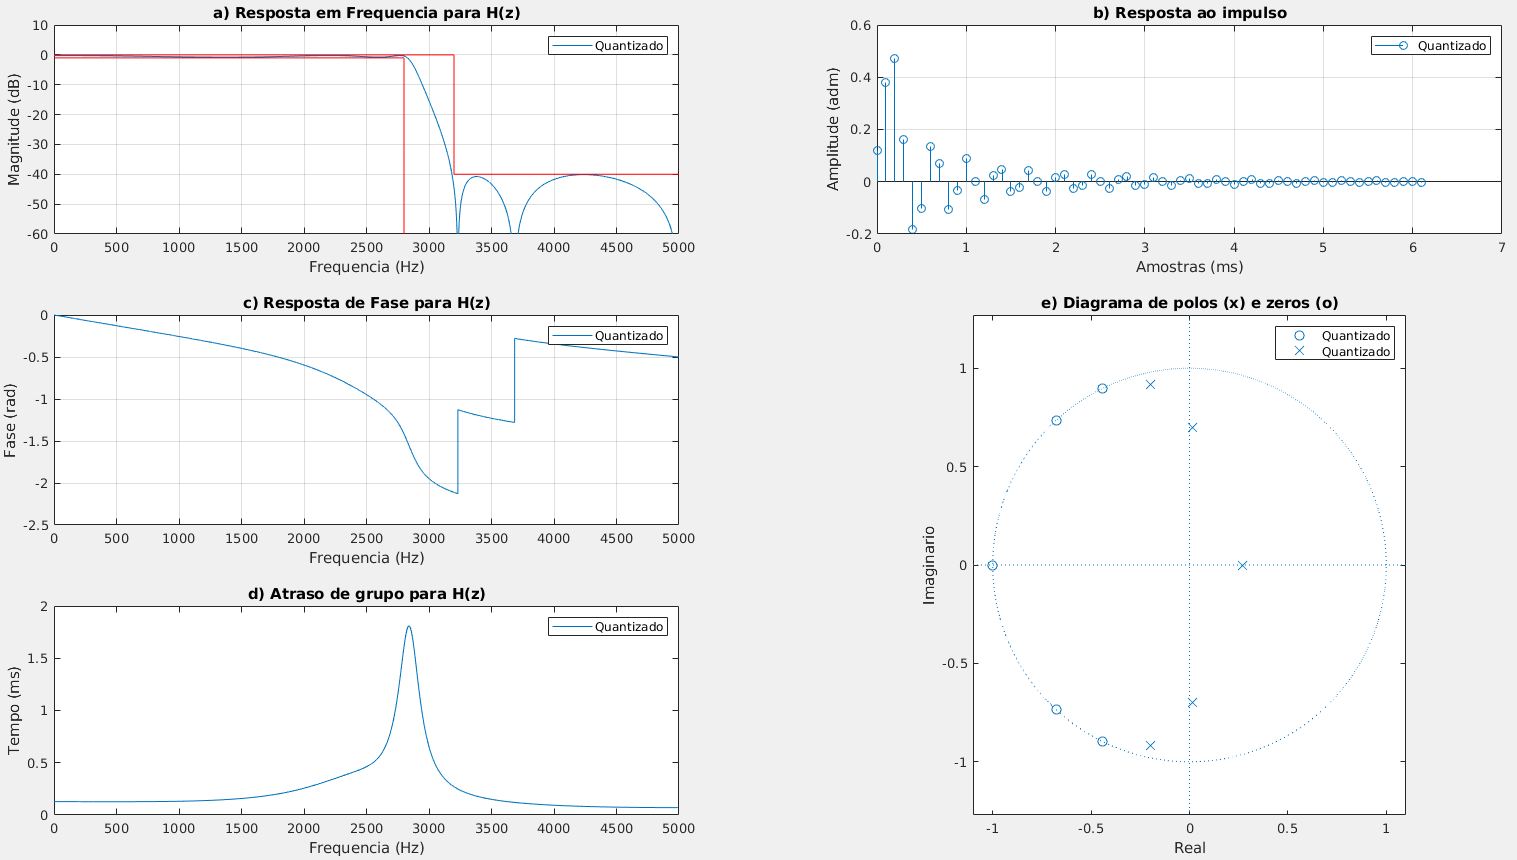
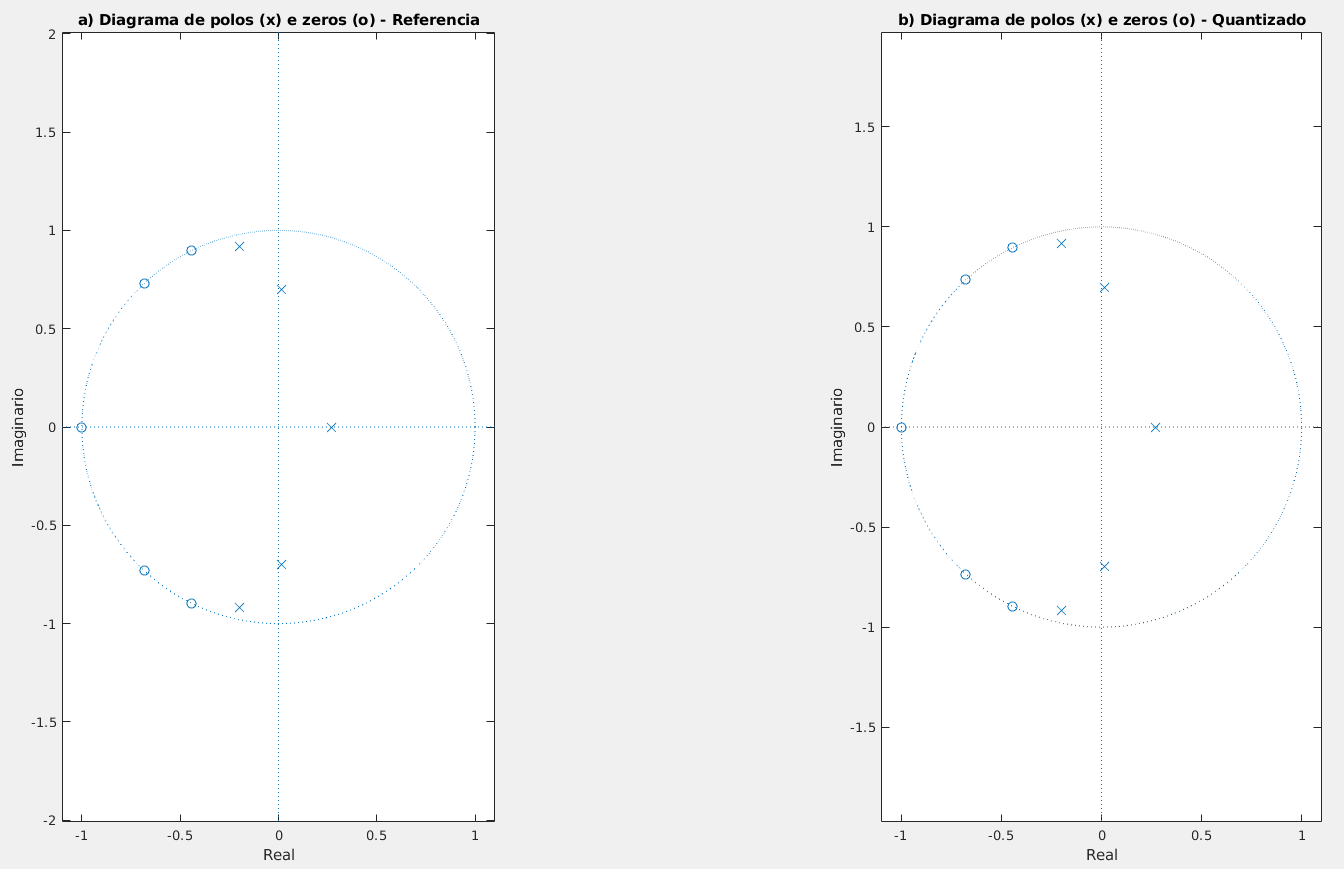
PSD A2: Adiciona plot comparativo polos e zeros

diff --git a/PSD1/A2/filtro2_2/filtro2_fir_quant_check.m b/PSD1/A2/filtro2_2/filtro2_fir_quant_check.m
@@ -19,11 +19,19 @@ legend('Referencia', 'Quantizado');
 
 %%
 figure(2)
+subplot(2,2,[2 4])
+zplane(Num, 1);
+title('b) Diagrama de polos (x) e zeros (o) - Quantizado')
+xlabel('Real');
+ylabel('Imaginario');
+
+%%
+figure(3)
 %suptitle(['HP FIR ' num2str(fs) '-' num2str(fp) ' Ordem: ' num2str(N)])
 
 escala = fa/2;
 subplot(3,2,[4 6])
-zplane(b, 1);
+zplane(Num, 1);
 axis([-2 2 -2 2])
 title('e) Diagrama de polos (x) e zeros (o)')
 xlabel('Real');
@@ -36,7 +44,7 @@ clear hq wq
 subplot(322)
 x_imp = [0:length(Num)-1]/fa*1000;
 stem(x_imp, Num); grid on;
-title('Resposta ao impulso')
+title('b) Resposta ao impulso')
 xlabel('Amostras (ms)');
 ylabel('Amplitude (adm)');
 legend('Quantizado');

diff --git a/PSD1/A2/filtro3/filtro3_fir_quant_check.m b/PSD1/A2/filtro3/filtro3_fir_quant_check.m
@@ -34,12 +34,18 @@ legend('Referencia', 'Quantizado');
 
 %%
 figure(2)
+subplot(2,2,[2 4])
+zplane(Num, 1); axis([-2 6 -2 2]);
+title('b) Diagrama de polos (x) e zeros (o) - Quantizado')
+xlabel('Real');
+ylabel('Imaginario');
+%%
+figure(3)
 %suptitle(['LP FIR ' num2str(fp) '-' num2str(fs) ' Ordem: ' num2str(2*M+1)])
 
 escala = fa/2;
 subplot(3,2,[4 6])
 zplane(Num, 1);
-axis([-2 2 -2 2])
 title('e) Diagrama de polos (x) e zeros (o)')
 xlabel('Real');
 ylabel('Imaginario');

diff --git a/PSD1/A2/filtro3/filtro3_iir.m b/PSD1/A2/filtro3/filtro3_iir.m
@@ -273,6 +273,14 @@ plot([fp1_espec,fp1_espec,fp2_espec, fp2_espec],[-60,-Ap,-Ap,-60], 'g')
 xlim([3350 3600]); ylim([-45 -35]);
 xlabel('Frequencia (Hz)');
 ylabel('Magnitude (dB)');
+
+figure(2)
+subplot(2,2,[1 3])
+zplane(bzn, azn);
+title('a) Diagrama de polos (x) e zeros (o) - Referencia')
+xlabel('Real');
+ylabel('Imaginario');
+
 %%
 % figure(4)   
 % % suptitle(['LP IIR ' num2str(fp_espec) '-' num2str(fs_espec) ' Ordem: ' num2str(n)])

diff --git a/PSD1/A2/filtro1/filtro1_iir_quant_check.m b/PSD1/A2/filtro1/filtro1_iir_quant_check.m
@@ -28,9 +28,16 @@ xlabel('Frequencia (Hz)');
 ylabel('Magnitude (dB)');
 legend('Referencia', 'Quantizado');
 
-
 %%
 figure(2)
+subplot(2,2,[2 4])
+zplane(Num, Den);
+title('b) Diagrama de polos (x) e zeros (o) - Quantizado')
+xlabel('Real');
+ylabel('Imaginario');
+
+%%
+figure(3)
 % suptitle(['LP IIR ' num2str(fp_espec) '-' num2str(fs_espec) ' Ordem: ' num2str(n)])
 subplot(321)
 plot(wzq/pi*escala, 20*log10(abs(hzq)));

diff --git a/PSD1/A2/filtro4/filtro4_iir_quant_check.m b/PSD1/A2/filtro4/filtro4_iir_quant_check.m
@@ -33,8 +33,15 @@ xlabel('Frequencia (Hz)');
 ylabel('Magnitude (dB)');
 legend('Referencia', 'Quantizado');
 
-%%
 figure(2)
+subplot(2,2,[2 4])
+zplane(Num, Den); axis([-1.15 1.15 -1.15 1.15]);
+title('b) Diagrama de polos (x) e zeros (o) - Quantizado')
+xlabel('Real');
+ylabel('Imaginario');
+
+%%
+figure(3)
 % suptitle(['LP IIR ' num2str(fp_espec) '-' num2str(fs_espec) ' Ordem: ' num2str(n)])
 
 subplot(321)

diff --git a/PSD1/A2/filtro4/filtro4_iir.m b/PSD1/A2/filtro4/filtro4_iir.m
@@ -241,6 +241,12 @@ xlim([1225 1325]); ylim([-65 -55]);
 xlabel('Frequencia (Hz)');
 ylabel('Magnitude (dB)');
 
+figure(2)
+subplot(2,2,[1 3])
+zplane(bzn, azn); axis([-1.15 1.15 -1.15 1.15]);
+title('a) Diagrama de polos (x) e zeros (o) - Referencia')
+xlabel('Real');
+ylabel('Imaginario');
 %%
 % figure(4)
 % % suptitle(['LP IIR ' num2str(fp_espec) '-' num2str(fs_espec) ' Ordem: ' num2str(n)])

diff --git a/PSD1/A2/filtro2_2/filtro2_iir_quant_check.m b/PSD1/A2/filtro2_2/filtro2_iir_quant_check.m
@@ -23,9 +23,16 @@ plot(wzq/pi*fa/2, 20*log10(abs(hzq)));
 legend('Referencia', 'Quantizado');
 grid on; hold on;
 
-
 %%
 figure(2)
+subplot(2,2,[2 4])
+zplane(Num, Den);
+title('b) Diagrama de polos (x) e zeros (o) - Quantizado')
+xlabel('Real');
+ylabel('Imaginario');
+
+%%
+figure(3)
 % suptitle(['LP IIR ' num2str(fp_espec) '-' num2str(fs_espec) ' Ordem: ' num2str(n)])
 
 subplot(321)

diff --git a/PSD1/A2/filtro3/filtro3_iir_quant_check.m b/PSD1/A2/filtro3/filtro3_iir_quant_check.m
@@ -35,7 +35,15 @@ ylabel('Magnitude (dB)');
 legend('Referencia', 'Quantizado');
 
 %%
-figure(2)   
+figure(2)
+subplot(2,2,[2 4])
+zplane(Num, Den);
+title('b) Diagrama de polos (x) e zeros (o) - Quantizado')
+xlabel('Real');
+ylabel('Imaginario');
+
+%%
+figure(3)   
 % suptitle(['LP IIR ' num2str(fp_espec) '-' num2str(fs_espec) ' Ordem: ' num2str(n)])
 escala = fa/2;
 subplot(321)

diff --git a/PSD1/A2/filtro4/filtro4_fir.m b/PSD1/A2/filtro4/filtro4_fir.m
@@ -81,6 +81,12 @@ xlim([1225 1325]); ylim([-65 -55]);
 xlabel('Frequencia (Hz)');
 ylabel('Magnitude (dB)');
 
+figure(2)
+subplot(2,2,[1 3])
+zplane(h_pm, 1); axis([-1.15 6.15 -1.15 1.15]);
+title('a) Diagrama de polos (x) e zeros (o) - Referencia')
+xlabel('Real');
+ylabel('Imaginario');
 %%
 % figure(2)
 % %suptitle(['LP FIR ' num2str(fp) '-' num2str(fs) ' Ordem: ' num2str(2*M+1)])

diff --git a/PSD1/A2/filtro3/filtro3_pm.m b/PSD1/A2/filtro3/filtro3_pm.m
@@ -84,6 +84,12 @@ xlim([3450 3550]); ylim([-50 -30]);
 xlabel('Frequencia (Hz)');
 ylabel('Magnitude (dB)');
 
+figure(2)
+subplot(2,2,[1 3])
+zplane(h_pm, 1); axis([-2 6 -2 2]);
+title('a) Diagrama de polos (x) e zeros (o) - Referencia')
+xlabel('Real');
+ylabel('Imaginario');
 %%
 % figure(2)
 % %suptitle(['LP FIR ' num2str(fp) '-' num2str(fs) ' Ordem: ' num2str(2*M+1)])

diff --git a/PSD1/A2/filtro1/filtro1_fir.m b/PSD1/A2/filtro1/filtro1_fir.m
@@ -87,6 +87,12 @@ xlim([0.5 0.7]); ylim([-50 -30]);
 xlabel('Frequencia (Hz)');
 ylabel('Magnitude (dB)');
 
+figure(2)
+subplot(2,2,[1 3])
+zplane(b, 1); axis([-2 2 -2 2]);
+title('a) Diagrama de polos (x) e zeros (o) - Referencia')
+xlabel('Real');
+ylabel('Imaginario');
 %%
 % figure(2)
 % %suptitle(['LP FIR ' num2str(fp) '-' num2str(fs) ' Ordem: ' num2str(2*M+1)])

diff --git a/PSD1/A2/filtro2_2/filtro2_iir.m b/PSD1/A2/filtro2_2/filtro2_iir.m
@@ -229,6 +229,13 @@ xlim([2200 3300]); ylim([-22 -18]);
 xlabel('Frequencia (Hz)');
 ylabel('Magnitude (dB)');
 
+figure(2)
+subplot(2,2,[1 3])
+zplane(bzn, azn);
+title('a) Diagrama de polos (x) e zeros (o) - Referencia')
+xlabel('Real');
+ylabel('Imaginario');
+
 %%
 % figure(4)
 % % suptitle(['LP IIR ' num2str(fp_espec) '-' num2str(fs_espec) ' Ordem: ' num2str(n)])
